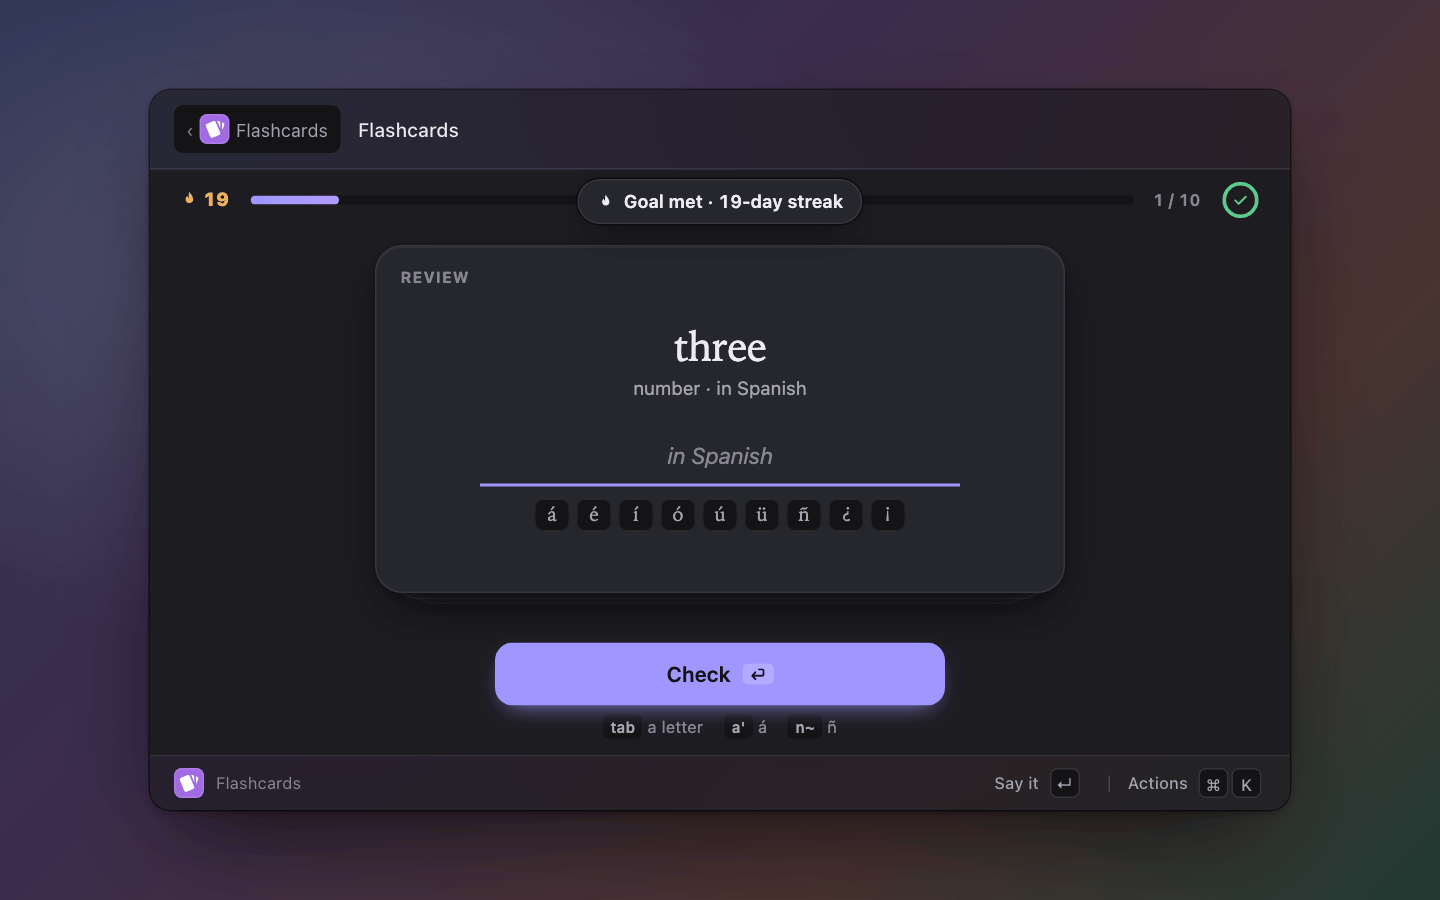
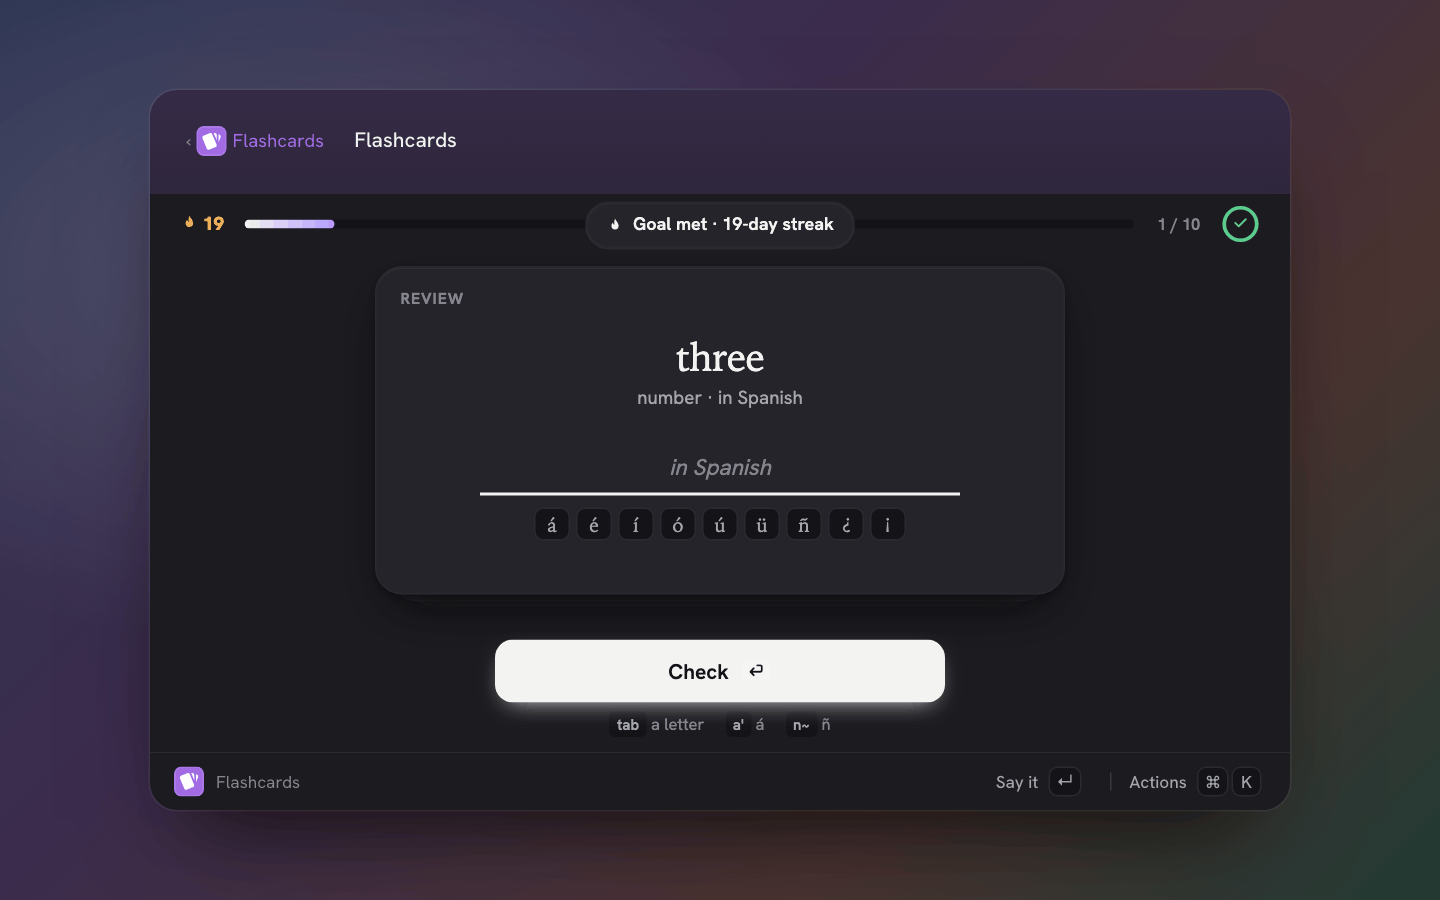
flashcards: pack and AnkiWeb deck panes lead with a header (caption, title, chips for practised/due/weak or added/audio/pictures, stats for mastered/learning/new or cards/liked/size), metadata keeps only the rest; a pack row keeps two accessories; Add Flashcard's card is the hero; the surface's sess

diff --git a/extensions/flashcards/index.ts b/extensions/flashcards/index.ts
@@ -505,22 +505,29 @@ async function packRows(): Promise<Row[]> {
       section: inRot ? "Practising" : "More packs",
       icon: inRot ? { glyph: "", color: "violet" } : { glyph: "", color: "slate" },
       keywords: [p.id, ...(p.description ? [p.description] : [])],
+      // Two at most: what is due (a state, as a tag) and how far along; the coverage is in the pane.
       accessories: [
         ...(pr.due ? [{ tag: `${pr.due} due`, color: "blue" }] : []),
-        ...(pr.coverage !== undefined && pr.seen ? [{ text: `covers ${pct(pr.coverage)}` }] : []),
         { text: `${pct(pr.mastered / Math.max(1, pr.total))} mastered` },
       ],
       detail: {
-        markdown: [`## ${p.title}`, p.description ?? "", pr.coverage !== undefined ? `The words you know cover **${pct(pr.coverage)}** of everyday spoken language, counting each by how often it is heard.` : "", p.source ? `<sub>${p.source}</sub>` : ""].filter(Boolean).join("\n\n"),
+        caption: `${p.bundled ? "Bundled pack" : "Your pack"} · ${pr.total} cards`,
+        title: p.title,
+        chips: [
+          inRot ? { text: "Practising", color: "violet" } : { text: "Not practised", color: "grey" },
+          ...(pr.due ? [{ text: `${pr.due} due today`, color: "blue" as const }] : []),
+          ...(w ? [{ text: `${w} weak`, color: "amber" as const }] : []),
+        ],
+        stats: [
+          { value: String(pr.mastered), label: "mastered", color: "success" },
+          { value: String(pr.seen - pr.mastered), label: "learning" },
+          { value: String(pr.total - pr.seen), label: "not seen yet" },
+          ...(pr.coverage !== undefined && pr.seen ? [{ value: pct(pr.coverage), label: "of speech covered" }] : []),
+        ],
+        markdown: [p.description ?? "", pr.coverage !== undefined ? `The words you know cover **${pct(pr.coverage)}** of everyday spoken language, counting each by how often it is heard. A card counts as mastered once it is not due for three weeks or more.` : "A card counts as mastered once it is not due for three weeks or more.", p.source ? `<sub>${p.source}</sub>` : ""].filter(Boolean).join("\n\n"),
         metadata: [
-          { label: "Cards", value: String(pr.total) },
-          { label: "Mastered", value: `${pr.mastered} (not due for 3 weeks or more)` },
-          { label: "Learning", value: String(pr.seen - pr.mastered) },
-          { label: "Not seen yet", value: String(pr.total - pr.seen) },
-          { label: "Due today", value: String(pr.due) },
-          ...(w ? [{ label: "Weak", value: `${w} for the refresher` }] : []),
           { label: "Directions", value: p.reverse ? "Both: recognise it, then type it" : "One way" },
-          { label: "Source", value: p.bundled ? "Bundled" : p.path ?? "" },
+          ...(p.path ? [{ label: "File", value: p.path }] : []),
         ],
       },
       actions: [
@@ -603,15 +610,21 @@ async function ankiDetail(id: string) {
     return `| ${plain(n[r.front!]?.value ?? "")} | ${plain(n[r.back!]?.value ?? "")} |`;
   });
   const pct = rating(d.up, d.down);
+  const have = await readdir(packsDir()).catch(() => [] as string[]);
+  const added = downloading.has(d.id) ? { text: "Downloading…", color: "blue" as const } : have.includes(`anki-${d.id}.apkg`) ? { text: "Added", color: "green" as const } : undefined;
   return {
-    markdown: [`## ${d.title}`, clip(plain(d.description.replace(/\n/g, " <br> ")), 700), rows.length ? `**Sample cards**\n\n| Front | Back |\n| --- | --- |\n${rows.join("\n")}` : ""].filter(Boolean).join("\n\n"),
+    caption: `AnkiWeb shared deck${d.updated ? ` · updated ${year(d.updated)}` : ""}`,
+    title: d.title,
+    chips: [...(added ? [added] : []), ...(d.audio ? [{ text: "Audio" }] : []), ...(d.images ? [{ text: "Pictures" }] : [])],
+    stats: [
+      { value: d.notes.toLocaleString("en"), label: "cards" },
+      ...(pct !== null ? [{ value: `${pct}%`, label: `of ${d.up + d.down} liked` }] : []),
+      { value: `${Math.max(1, Math.round(d.size / 1e6))} MB`, label: "download" },
+    ],
+    markdown: [clip(plain(d.description.replace(/\n/g, " <br> ")), 700), rows.length ? `**Sample cards**\n\n| Front | Back |\n| --- | --- |\n${rows.join("\n")}` : ""].filter(Boolean).join("\n\n"),
     metadata: [
-      { label: "Cards", value: d.notes.toLocaleString("en") },
       ...(d.audio ? [{ label: "Audio", value: `${d.audio.toLocaleString("en")} recordings, played on Tab` }] : []),
       ...(d.images ? [{ label: "Pictures", value: d.images.toLocaleString("en") }] : []),
-      { label: "Download", value: `${Math.max(1, Math.round(d.size / 1e6))} MB` },
-      ...(pct !== null ? [{ label: "Liked", value: `${pct}% of ${d.up + d.down}` }] : []),
-      ...(d.updated ? [{ label: "Updated", value: String(year(d.updated)) }] : []),
       ...(d.tags ? [{ label: "Tags", tags: d.tags.split(/\s+/).slice(0, 6).map((t) => ({ text: t })) }] : []),
     ],
   };
@@ -672,7 +685,7 @@ export function splitCard(q: string): { front: string; back: string } | null {
 async function addRows(q = ""): Promise<Row[]> {
   const c = splitCard(q);
   if (!c) return [hint("how", q.trim() ? "Type the back after an =" : "Type front = back", `gato = cat · goes into “My cards”, practised with the rest`)];
-  return [{ id: `add:${c.front}\t${c.back}`, name: `${c.front}  →  ${c.back}`, subtitle: "Add to My cards", icon: { glyph: "", color: "violet" }, actions: [{ id: "add", title: "Add the card" }] }];
+  return [{ id: `add:${c.front}\t${c.back}`, name: `${c.front}  →  ${c.back}`, hero: true, subtitle: "Add to My cards", icon: { glyph: "", color: "violet" }, actions: [{ id: "add", title: "Add the card" }] }];
 }
 
 async function addPick(id: string): Promise<Effect | void> {

diff --git a/extensions/flashcards/surface/style.css b/extensions/flashcards/surface/style.css
@@ -20,6 +20,10 @@
   --fem: var(--pal-tag-pink, #c2378a);
   --both: var(--pal-tag-violet, #7c3aed);
   --serif: "New York", ui-serif, "Iowan Old Style", Georgia, "Noto Serif", serif;
+  /* The panel's display type (Ink's headline face; pal's own UI face otherwise): a session's end, the welcome and the stats lead in it; the words on the cards stay in the serif. */
+  --display: var(--pal-font-hero, var(--pal-font-query, var(--pal-font-ui, system-ui, sans-serif)));
+  --display-weight: var(--pal-weight-hero, 700);
+  --display-track: var(--pal-tracking-query, -0.02em);
   --line: var(--pal-line, rgba(0, 0, 0, 0.08));
   --fg: var(--pal-fg, #1b1b1f);
   --muted: var(--pal-fg-muted, #6b6b76);
@@ -39,7 +43,7 @@ html, body { margin: 0; height: 100%; overflow: hidden; }
 body {
   background: var(--pal-bg, #f5f5f7);
   color: var(--fg);
-  font: 13px/1.3 var(--pal-font-ui, system-ui, sans-serif);
+  font: var(--pal-text-md, 13px)/1.3 var(--pal-font-ui, system-ui, sans-serif);
   display: flex;
   flex-direction: column;
   user-select: none;
@@ -233,7 +237,7 @@ body.typing #typed:not(:empty) { display: block; }
 .burst[data-kind="rest"] { background: var(--pal-accent-soft, rgba(91, 91, 214, 0.14)); color: var(--accent); }
 .burst[data-kind="empty"] { background: var(--sunken); color: var(--faint); }
 @keyframes pop { from { transform: scale(0.3); opacity: 0; } }
-#done h1 { margin: 2px 0 0; font: 600 23px/1.2 var(--serif); }
+#done h1 { margin: 2px 0 0; font: var(--display-weight) var(--pal-text-hero, 22px)/1.15 var(--display); letter-spacing: var(--display-track); }
 #facts { color: var(--muted); font-size: 13px; }
 #chips { display: flex; flex-direction: column; gap: 6px; align-items: center; margin-top: 4px; max-width: 94%; }
 .group { display: flex; flex-wrap: wrap; gap: 5px; align-items: center; justify-content: center; }
@@ -255,7 +259,7 @@ body.typing #typed:not(:empty) { display: block; }
 #stats { gap: 14px; }
 .figures { display: flex; gap: 22px; justify-content: center; }
 .fig { display: flex; flex-direction: column; align-items: center; gap: 1px; }
-.fig b { font: 600 22px/1.1 var(--serif); }
+.fig b { font: var(--display-weight) 22px/1.1 var(--display); letter-spacing: var(--display-track); }
 .fig span { font-size: 11px; color: var(--muted); }
 #stats .two { display: flex; gap: 28px; align-items: flex-start; }
 .cap { font-size: 10px; font-weight: 700; letter-spacing: 0.06em; text-transform: uppercase; color: var(--faint); margin-bottom: 6px; text-align: left; }
@@ -284,13 +288,13 @@ body.typing #typed:not(:empty) { display: block; }
 
 /* ---- welcome ----------------------------------------------------------------------- */
 #welcome { gap: 12px; }
-#welcome h1 { margin: 0; font: 600 22px/1.2 var(--serif); }
+#welcome h1 { margin: 0; font: var(--display-weight) 24px/1.15 var(--display); letter-spacing: var(--display-track); }
 .how { list-style: none; margin: 0; padding: 0; display: grid; grid-template-columns: repeat(3, 1fr); gap: 10px; width: min(560px, 94%); counter-reset: step; }
 .how li { counter-increment: step; display: flex; flex-direction: column; gap: 2px; font-size: 12px; color: var(--muted); text-align: left; padding-left: 26px; position: relative; }
 .how li::before { content: counter(step); position: absolute; left: 0; top: 0; width: 18px; height: 18px; border-radius: 50%; display: grid; place-items: center; background: var(--pal-accent-soft, rgba(91, 91, 214, 0.16)); color: var(--accent); font-weight: 700; font-size: 11px; }
 .how b { color: var(--fg); font-weight: 600; }
 #packs { display: flex; flex-direction: column; gap: 6px; width: min(520px, 92%); }
-.pack { display: flex; align-items: center; gap: 12px; padding: 10px 12px; border-radius: 12px; border: 1px solid var(--line); background: var(--paper); text-align: left; cursor: pointer; transition: border-color 120ms, box-shadow 120ms; }
+.pack { display: flex; align-items: center; gap: 12px; padding: 10px 12px; border-radius: var(--pal-radius-tile, 12px); border: 1px solid var(--line); background: var(--paper); text-align: left; cursor: pointer; transition: border-color 120ms, box-shadow 120ms; }
 .pack.at { border-color: var(--accent); box-shadow: 0 0 0 3px var(--pal-accent-soft, rgba(91, 91, 214, 0.16)); }
 .pack .box { flex: none; display: grid; place-items: center; width: 18px; height: 18px; border-radius: 5px; border: 1.5px solid var(--faint); color: #fff; font-size: 12px; transition: background 120ms, border-color 120ms; }
 .pack.on .box { background: var(--accent); border-color: var(--accent); }

diff --git a/host/test/extensions/flashcards.test.ts b/host/test/extensions/flashcards.test.ts
@@ -438,6 +438,12 @@ describe("the extension", () => {
     const rows = await host.list("flashcards", "flashcard-packs");
     const words = rows.find((r) => r.id === "spanish-words")!;
     expect(words).toMatchObject({ section: "Practising", subtitle: "0 mastered · 5 learning · 5996 new" });
+    // The pane leads with the pack: its name, whether it is practised, the counts as stats; the metadata keeps only what the header does not say.
+    expect(words.detail).toMatchObject({ title: words.name });
+    expect(words.detail!.chips![0]).toEqual({ text: "Practising", color: "violet" });
+    expect(words.detail!.stats!.slice(0, 3)).toMatchObject([{ value: "0", label: "mastered" }, { value: "5", label: "learning" }, { value: "5996", label: "not seen yet" }]);
+    expect(words.detail!.metadata!.map((m) => m.label)).toEqual(["Directions"]);
+    expect(words.accessories!.length).toBeLessThanOrEqual(2);
     expect(rows.find((r) => r.id === "spanish-phrases")).toMatchObject({ section: "More packs" });
     expect(rows.find((r) => r.id === "my-cards")).toMatchObject({ section: "Practising", name: "my-cards" });
     expect(rows.some((r) => r.name === "A pack file could not be read")).toBe(true);
@@ -471,6 +477,8 @@ describe("the extension", () => {
     const d = await host.detail("flashcards", "flashcard-anki", "42");
     expect(d.markdown).toContain("| el gato | the cat |");
     expect(d.metadata).toContainEqual({ label: "Audio", value: "1 recordings, played on Tab" });
+    expect(d).toMatchObject({ title: "Spanish Animals", chips: [{ text: "Audio" }] });
+    expect(d.stats!.slice(0, 2)).toEqual([{ value: "2", label: "cards" }, { value: "90%", label: "of 100 liked" }]);
     expect(await host.pick("flashcards", "flashcard-anki", "42", "open")).toEqual({ open: "https://ankiweb.net/shared/info/42" });
     expect(await host.pick("flashcards", "flashcard-anki", "42", "open", { ids: ["42", "43"] })).toEqual({ open: ["https://ankiweb.net/shared/info/42", "https://ankiweb.net/shared/info/43"] });
     expect(await host.pick("flashcards", "flashcard-anki", "42", "add")).toMatchObject({ toast: { title: "Downloading Spanish Animals" }, keep: true });
